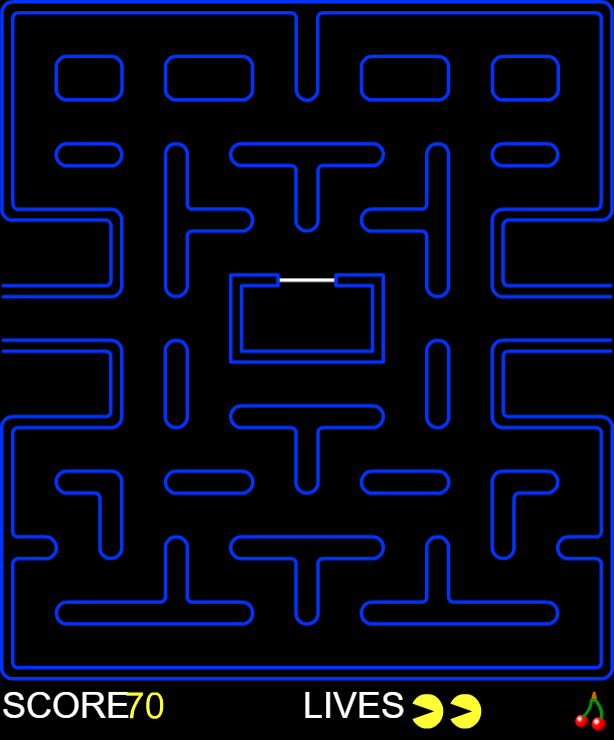
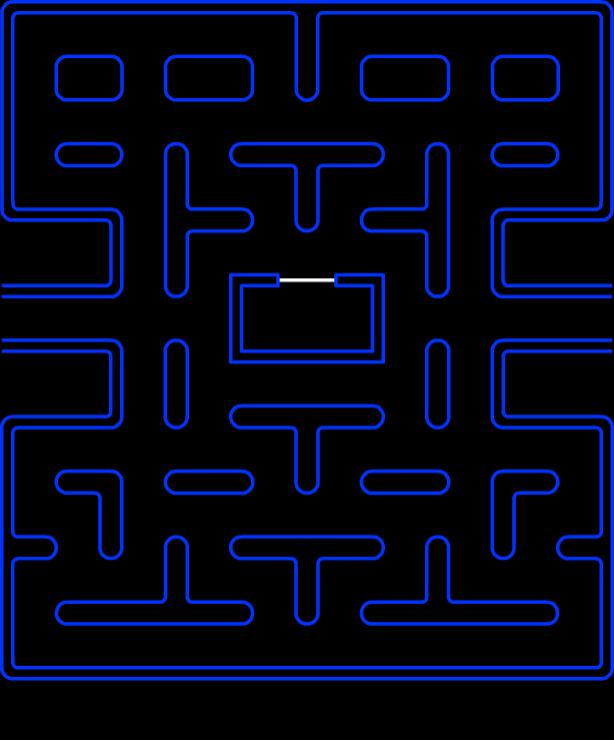
Add PowerBall and FoodBall classes

Changed region(s): [[0.4951, 0.9324, 0.8046, 0.9946], [0.0, 0.9324, 0.2785, 0.9946], [0.9283, 0.9324, 0.9902, 0.9946]]

diff --git a/Game_window.cpp b/Game_window.cpp
@@ -1,6 +1,7 @@
 #include "Game_window.h"
 #include "ui_Game_window.h"
 #include "map.h"
+#include "powerball.h"
 #include <QGraphicsScene>
 
 Game_window::Game_window(QWidget *parent) : QDialog(parent),ui(new Ui::Game_window)
@@ -14,17 +15,47 @@ Game_window::Game_window(QWidget *parent) : QDialog(parent),ui(new Ui::Game_wind
     ui->gameplay_area->setSceneRect(scene->sceneRect());
 
     pac_map=new Map;
+    power_ball=new PowerBall;
+    food_ball=new FoodBall;
+
+    powerball_positions = new QVector<QPoint>;
+    *powerball_positions = power_ball->getPowerBallPositions();
+
+    foodball_positions = new QVector<QPoint>;
+    *foodball_positions = food_ball->getFoodBallPositions();
 
     scene->addPixmap(pac_map->map_background_picture);
+
+    score_display = scene->addText("Score");
+    score_display->setDefaultTextColor(Qt::white);
+    score_display->setFont(QFont("Arial", 40));
+    score_display->setPos(0,671);
+
+    for(int i=0;i<powerball_positions->size();i++)
+    {
+        powerball_graphical_items_table.push_back(scene->addEllipse(powerball_positions->at(i).x(),powerball_positions->at(i).y(),15,15,QPen(Qt::NoPen),QBrush(Qt::green)));
+    }
+
+    foodball_items_count=foodball_positions->size();
+
+    qDebug("Foodball positions size: %d", foodball_positions->size());
+
+    for(int i=0;i<foodball_positions->size();i++)
+    {
+        foodball_graphical_items_table.push_back(scene->addEllipse(foodball_positions->at(i).x(),foodball_positions->at(i).y(),7,7,QPen(Qt::NoPen),QBrush(Qt::white)));
+    }
+
     StartGame();
 }
 
 void Game_window::StartGame()
 {
-    pac_man=new Pacman();
+    pac_man=new Pacman;
 
     pac_x=320;
     pac_y=514;
+
+    score=0;
 
     scene->addItem(pac_man);
 
@@ -193,7 +224,44 @@ void Game_window::keyPressEvent(QKeyEvent *event) //supports pacman movement usi
 void Game_window::updater()
 {
     PacmanMove();                          //changes position of pacman
-    scene->update(pac_map->boundingRect()); //redraws objects visible on map
+
+    for(int i=0;i<foodball_positions->size();i++)
+    {
+        if(pac_x==foodball_positions->at(i).x() && pac_y==foodball_positions->at(i).y())
+        {
+            foodball_positions->remove(i);
+            foodball_graphical_items_table.at(i)->hide();
+            foodball_graphical_items_table.remove(i);
+
+            score++;
+            score_display->setPlainText("Score: " + QString::number(score));
+            foodball_items_count--;
+        }
+    }
+
+    for(int i=0;i<powerball_positions->size();i++)
+    {
+        if(pac_x==powerball_positions->at(i).x() && pac_y==powerball_positions->at(i).y())
+        {
+            powerball_positions->remove(i);
+            powerball_graphical_items_table.at(i)->hide();
+            powerball_graphical_items_table.remove(i);
+
+            score+=100;
+            score_display->setPlainText("Score: " + QString::number(score));
+        }
+    }
+
+    qDebug("Items left: %d", foodball_items_count);
+
+    if(foodball_items_count==0)
+    {
+        qDebug("Game over");
+        scene->clear();
+    }
+
+    scene->update(scene->sceneRect());
+    //qDebug("Pacman coordinates: (%d,%d)", pac_x, pac_y);
 }
 
 Game_window::~Game_window()

diff --git a/foodball.cpp b/foodball.cpp
@@ -1,0 +1,54 @@
+#include "foodball.h"
+#include "map.h"
+#include <algorithm>
+
+#include <iostream>
+
+FoodBall::FoodBall()
+{
+    Map referencemap;
+    pacmanmapforreference = referencemap.getPacmanPaths();
+
+    CreateFoodballPositionsVector();
+}
+
+
+
+QVector<QPoint> FoodBall::getFoodBallPositions()
+{
+    return foodballpositions;
+}
+
+void FoodBall::CreateFoodballPositionsVector()
+{
+    int horizontal_lines_y[10]={35,121,187,252,318,384,449,514,580,645};
+    int vertical_lines_x[10]={35,79,144,209,274,340,406,470,536,579};
+
+    for(int i=0;i<10;i++)
+    {
+        for(int j=0;j<10;j++)
+        {
+                if(pacmanmapforreference.contains(QPoint(vertical_lines_x[i],horizontal_lines_y[j])))
+                {
+                    foodballpositions.push_back(QPoint(vertical_lines_x[i],horizontal_lines_y[j]));
+                }
+        }
+    }
+
+    qDebug("Foodball positions vector size in function creating it: %d",foodballpositions.size());
+
+    // Create a new vector without the duplicates
+    QVector<QPoint> unique_foodballpositions;
+
+    for (QVector<QPoint>::iterator iter = foodballpositions.begin(); iter != foodballpositions.end();iter++)
+    {
+        if(std::find(unique_foodballpositions.begin(),unique_foodballpositions.end(), *iter)==unique_foodballpositions.end())
+        {
+            unique_foodballpositions.push_back( *iter );
+            foodballcount++;
+        }
+    }
+    std::swap( foodballpositions, unique_foodballpositions );
+
+    qDebug("Foodball positions vector size after deleting non-unique elements: %d",foodballpositions.size());
+}

diff --git a/Game_window.h b/Game_window.h
@@ -3,6 +3,8 @@
 
 #include "map.h"
 #include "pacman.h"
+#include "powerball.h"
+#include "foodball.h"
 #include <QDialog>
 #include <QtCore>
 #include <QtGui>
@@ -24,11 +26,28 @@ private:
     int nextdirection;
     int pac_x,pac_y;
 
+    int score;
+    int foodball_items_count;
+
+    QVector<QPoint> *powerball_positions;
+    QVector<QPoint> *foodball_positions;
+
+    QGraphicsEllipseItem powerball_items;
+    QGraphicsEllipseItem foodball_items;
+
+    QVector<QGraphicsEllipseItem*> foodball_graphical_items_table;
+    QVector<QGraphicsEllipseItem*> powerball_graphical_items_table;
+
+    QGraphicsTextItem *score_display;
+
 public:
     explicit Game_window(QWidget *parent = 0);
     void StartGame();
     void PacmanMove();
     Map *pac_map;
+    PowerBall *power_ball;
+    FoodBall *food_ball;
+
     Pacman *pac_man;
     ~Game_window();
 

diff --git a/powerball.cpp b/powerball.cpp
@@ -1,0 +1,23 @@
+#include "powerball.h"
+#include <QPoint>
+#include <QVector>
+
+PowerBall::PowerBall()
+{
+    QPoint powerballposition1 = QPoint(35,57);
+    QPoint powerballposition2 = QPoint(579,57);
+    QPoint powerballposition3 = QPoint(35,514);
+    QPoint powerballposition4 = QPoint(579,514);
+
+    powerballpositions.push_back(powerballposition1);
+    powerballpositions.push_back(powerballposition2);
+    powerballpositions.push_back(powerballposition3);
+    powerballpositions.push_back(powerballposition4);
+}
+
+QVector<QPoint> PowerBall::getPowerBallPositions()
+{
+    return powerballpositions;
+}
+
+

diff --git a/foodball.h b/foodball.h
@@ -1,0 +1,20 @@
+#ifndef FOODBALL_H
+#define FOODBALL_H
+
+#include <QGraphicsItem>
+#include <QPoint>
+
+class FoodBall
+{
+private:
+    int foodballcount;
+    QVector<QPoint> foodballpositions;
+    QVector<QPoint> pacmanmapforreference;
+public:
+    FoodBall();
+
+    QVector<QPoint> getFoodBallPositions();
+    void CreateFoodballPositionsVector();
+};
+
+#endif // FOODBALL_H

diff --git a/map.cpp b/map.cpp
@@ -102,6 +102,11 @@ QRectF Map::boundingRect() const //sets map bounding rect which will be updated 
     return QRect(0,0,614,740);
 }
 
+QVector<QPoint> Map::getPacmanPaths()
+{
+    return pacman_paths;
+}
+
 void Map::CreatePathPoints(int x_begin, int y_begin, int x_end, int y_end) //only left-right and up-down lines
 {
     QPoint p;

diff --git a/powerball.h b/powerball.h
@@ -1,0 +1,19 @@
+#ifndef POWERBALL_H
+#define POWERBALL_H
+
+#include <QGraphicsItem>
+#include <QPainter>
+
+#include <QVector>
+#include <QPoint>
+
+class PowerBall
+{
+private:
+    QVector<QPoint> powerballpositions;
+public:
+    PowerBall();
+    QVector<QPoint> getPowerBallPositions();
+};
+
+#endif // POWERBALL_H

diff --git a/map.h b/map.h
@@ -18,6 +18,7 @@ public:
     void LoadMapImage();
     bool IsPointAvailable(QPoint);
     QRectF boundingRect() const;
+    QVector<QPoint> getPacmanPaths(void);
 
     QPixmap map_background_picture;
 
